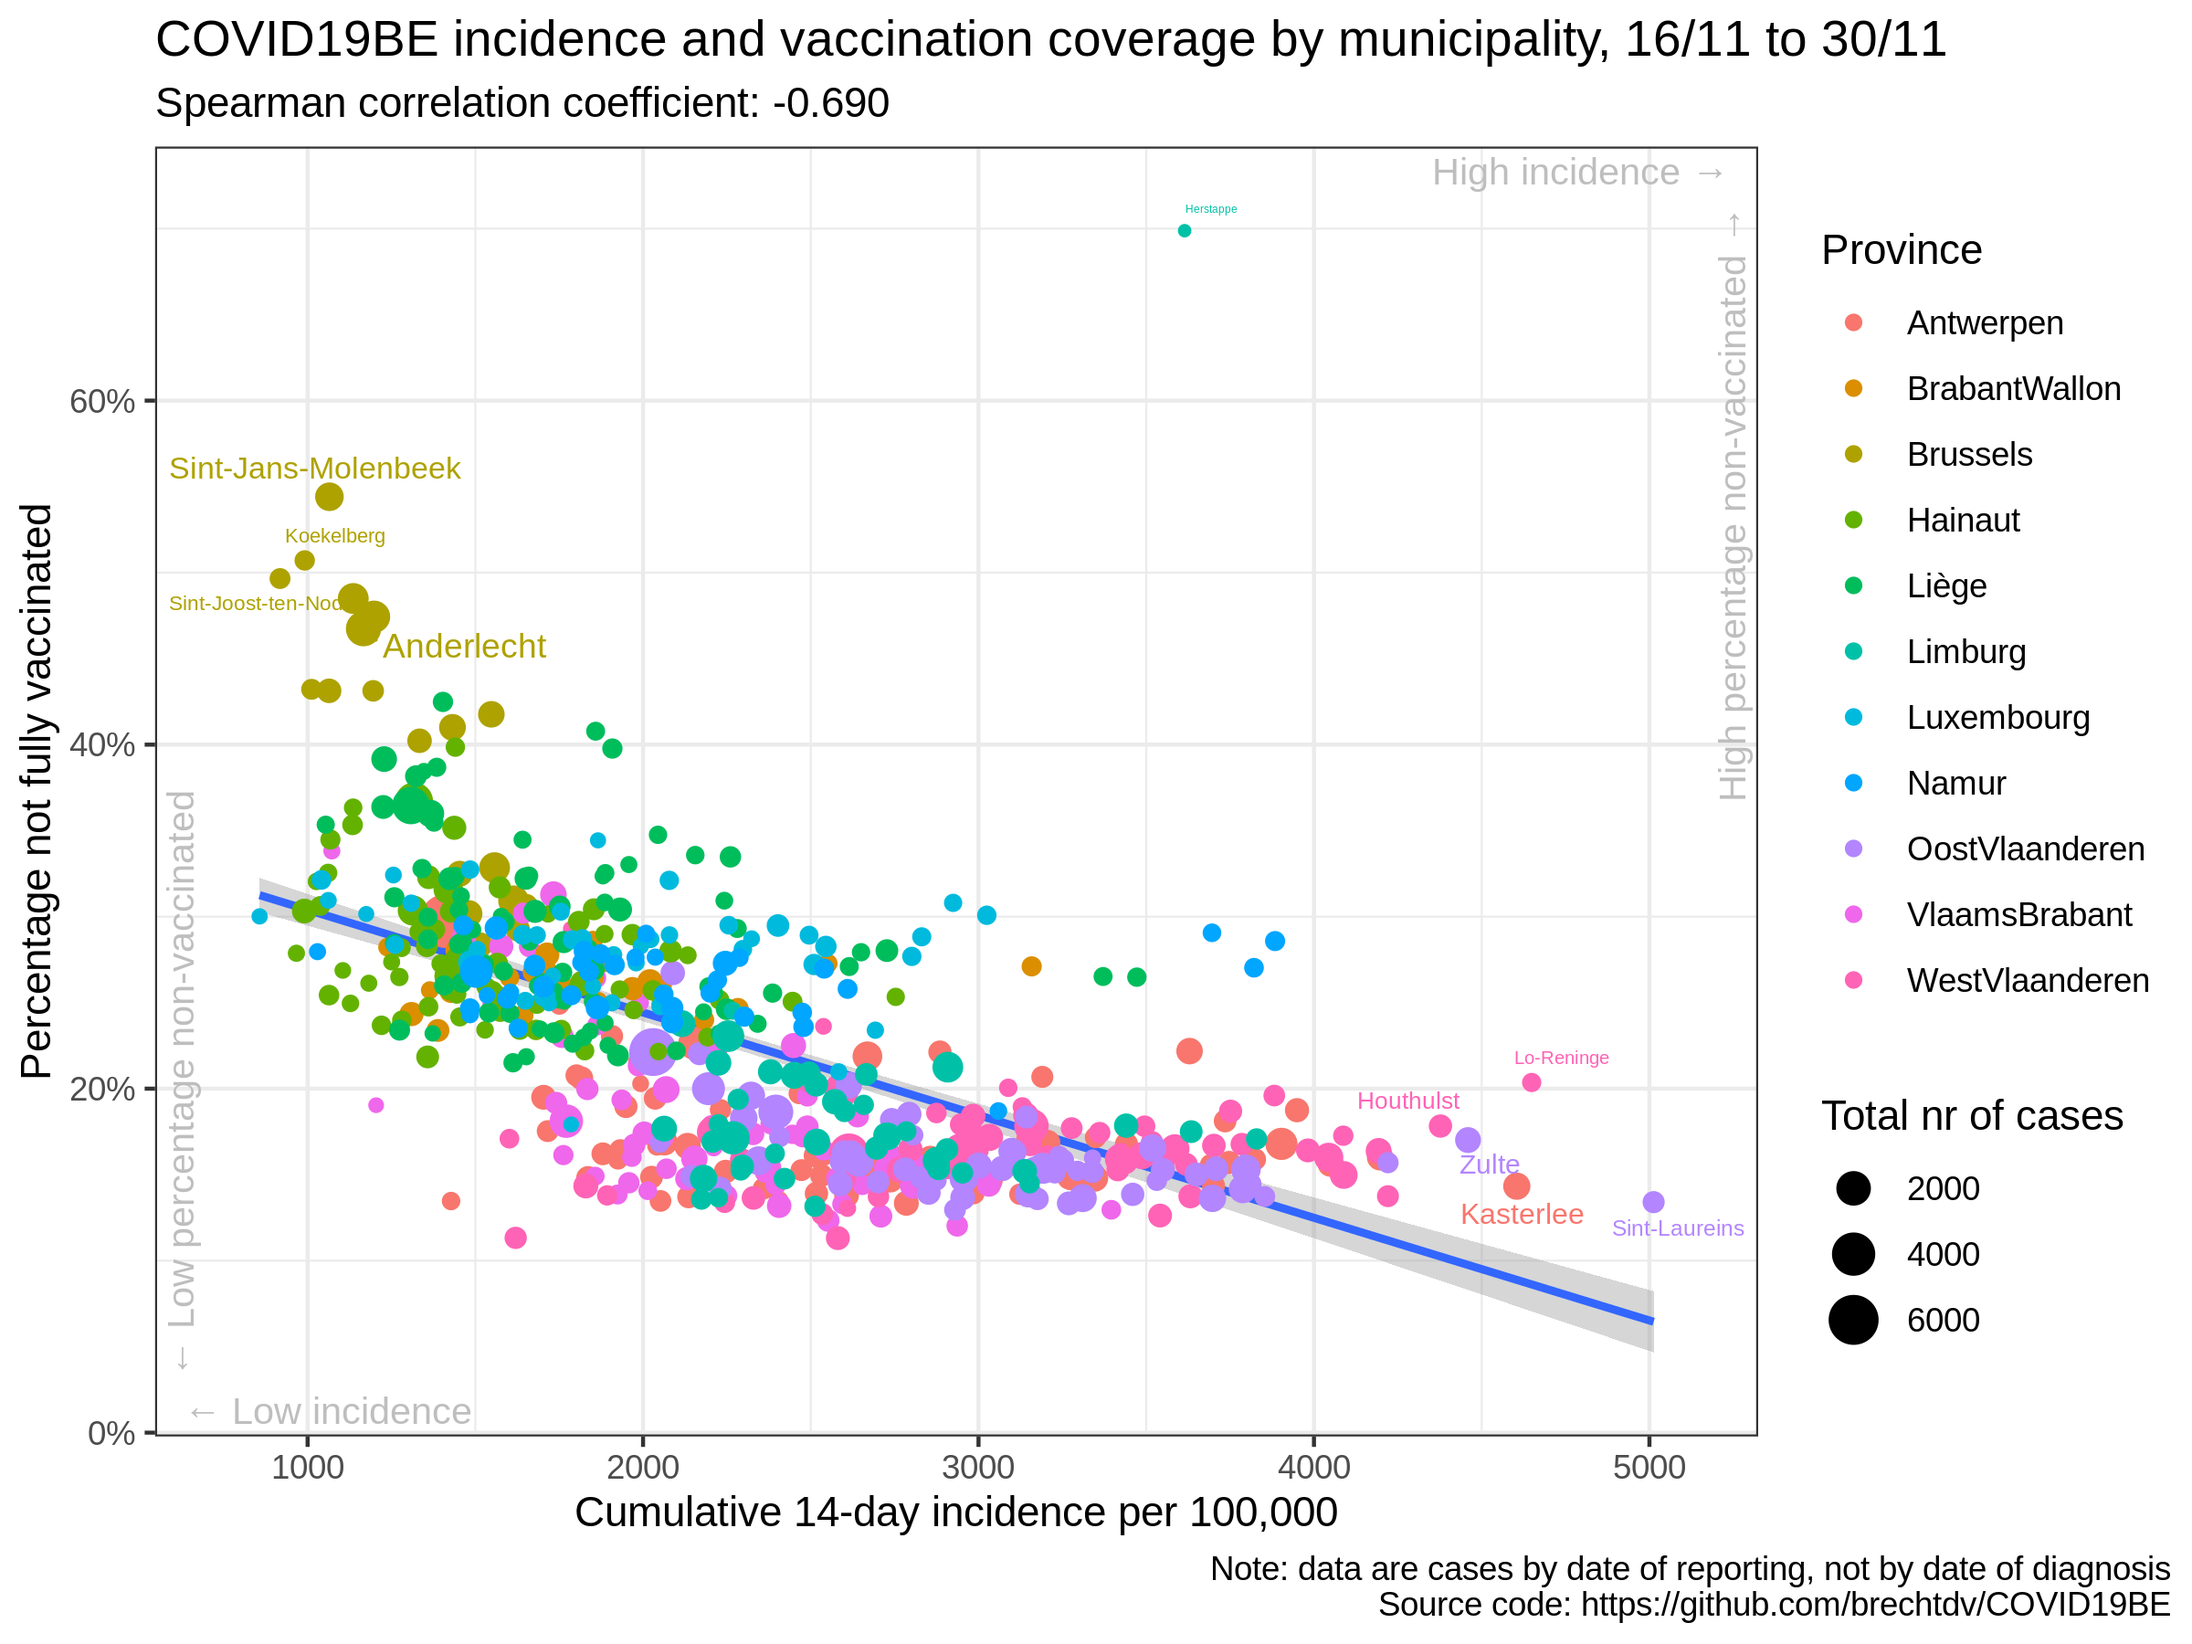
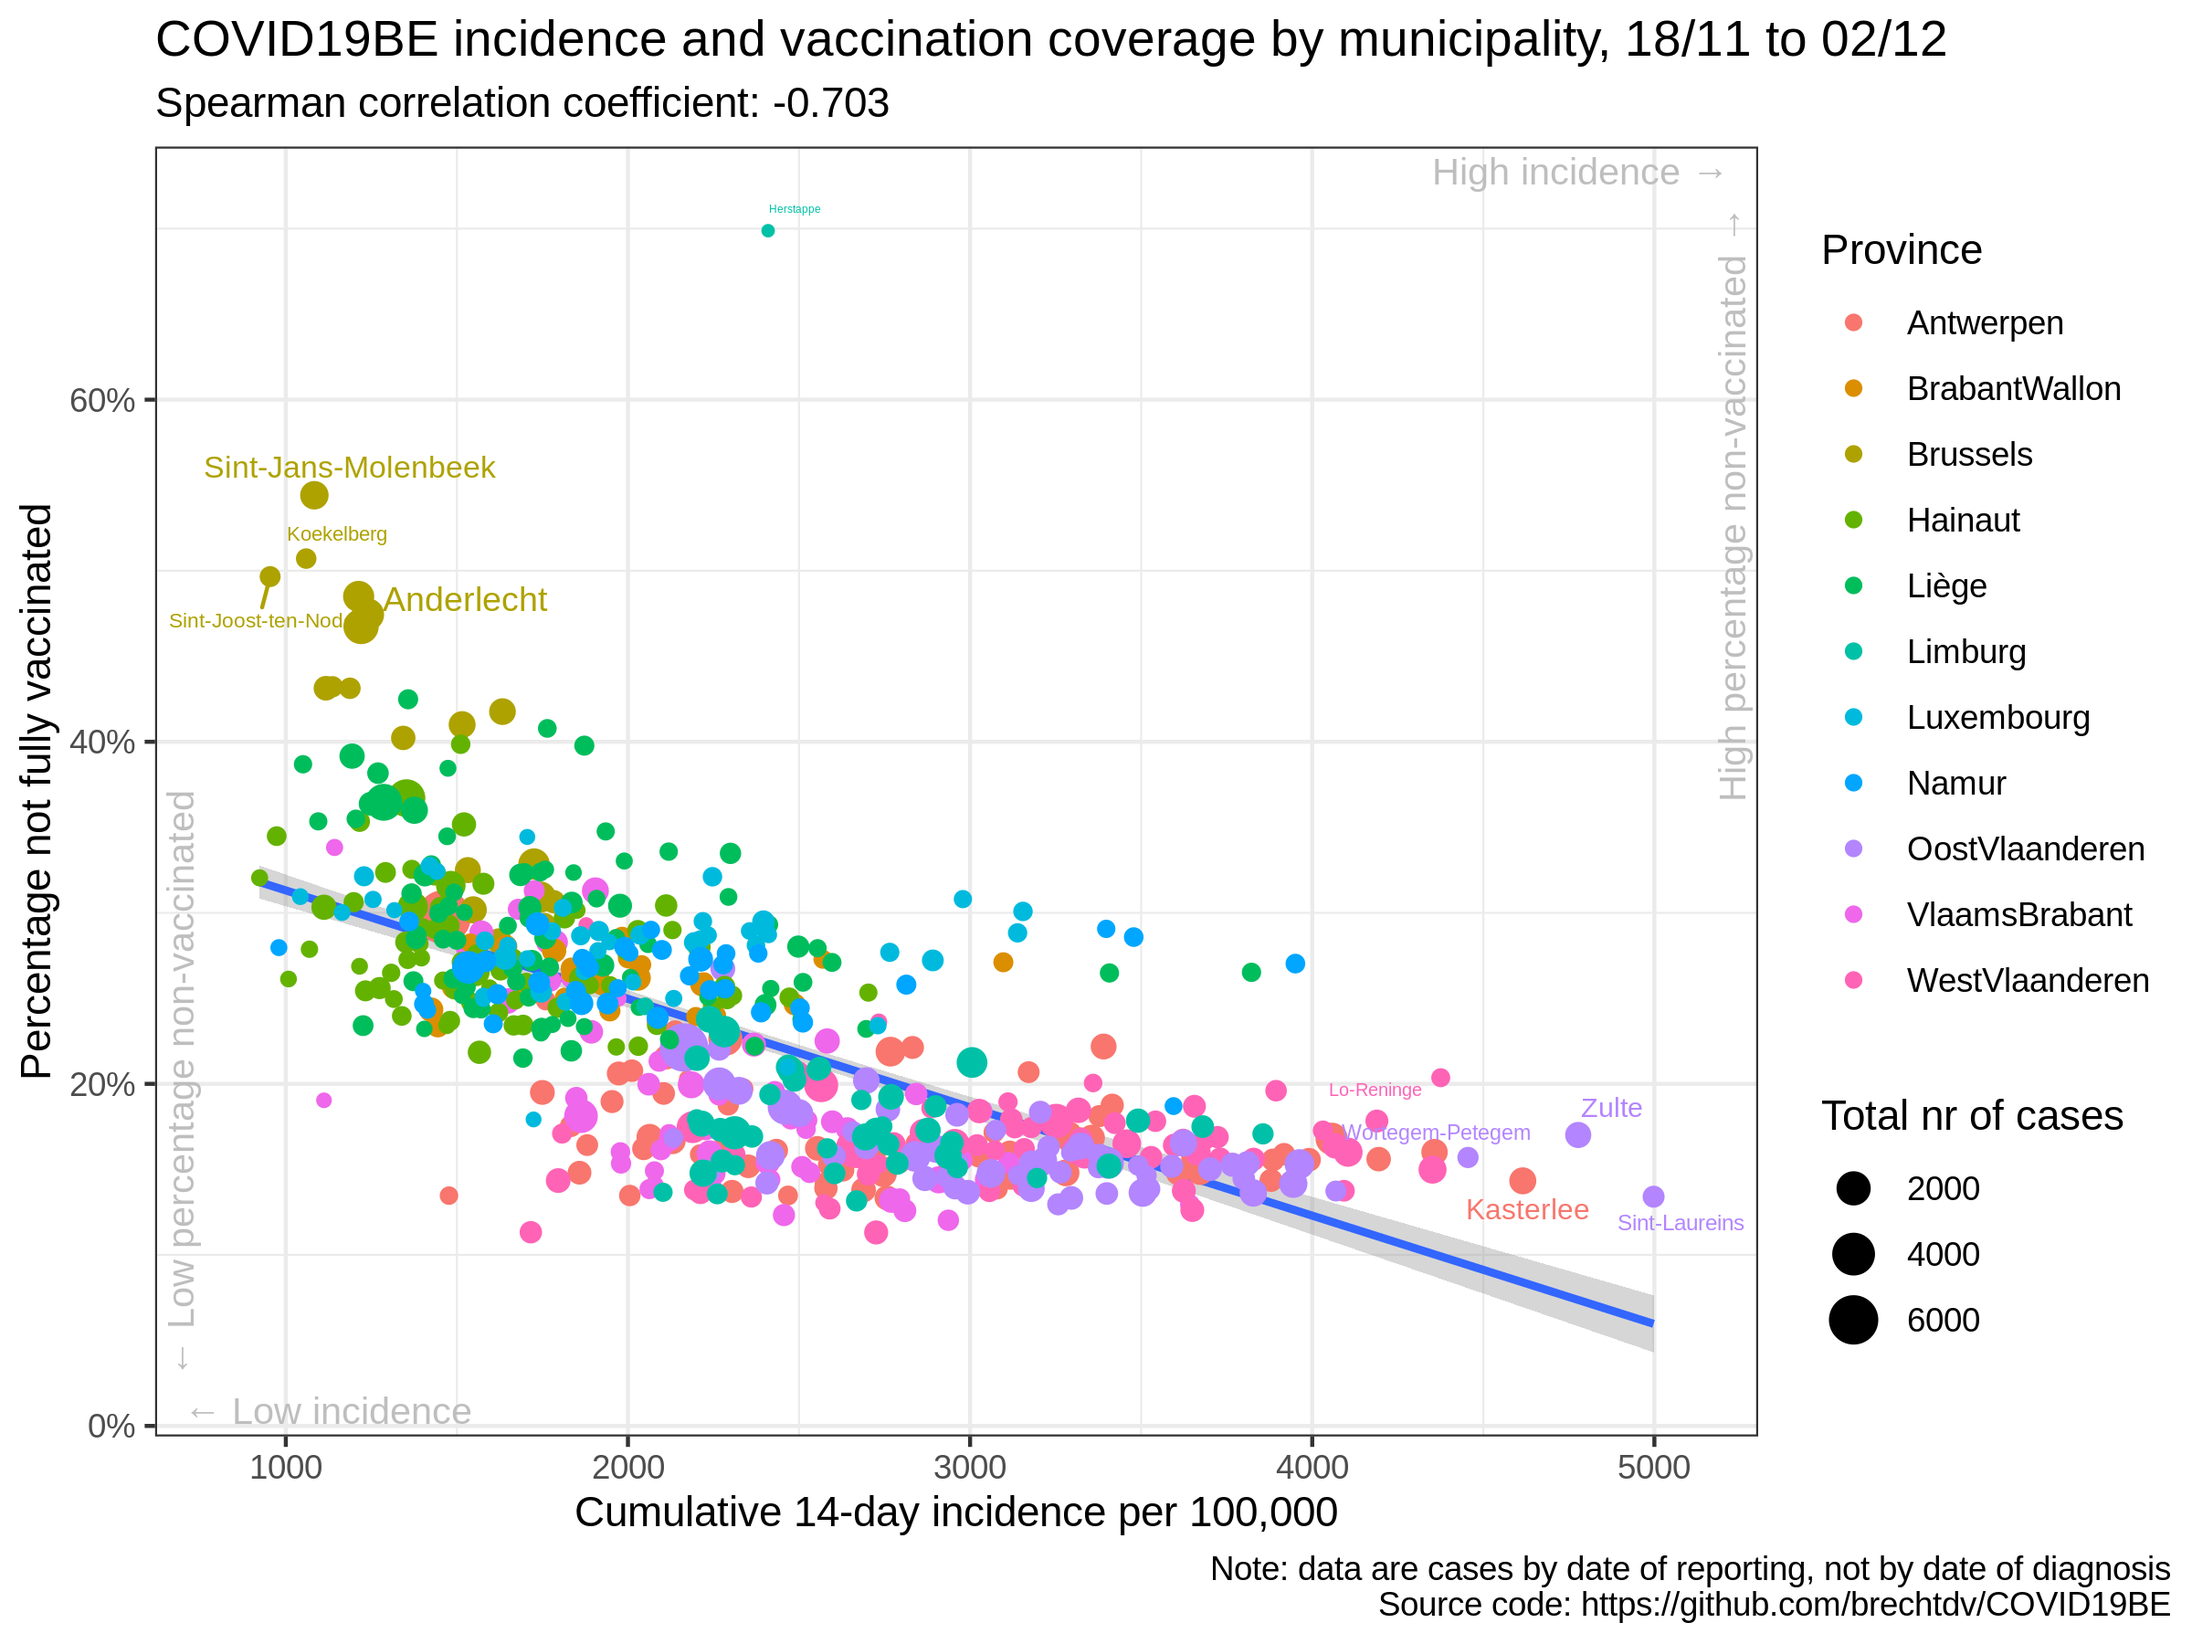
update situation

diff --git a/vaccination/README.md b/vaccination/README.md
@@ -13,18 +13,18 @@
 
 |                | estimate.rho | p.value |
 | :------------- | -----------: | ------: |
-| Antwerpen      |      \-0.224 |   0.064 |
-| BrabantWallon  |        0.006 |   0.977 |
-| Brussels       |      \-0.851 |   0.000 |
-| Hainaut        |      \-0.404 |   0.001 |
-| Liège          |      \-0.354 |   0.001 |
-| Limburg        |      \-0.065 |   0.682 |
-| Luxembourg     |      \-0.223 |   0.146 |
-| Namur          |      \-0.057 |   0.735 |
-| OostVlaanderen |      \-0.492 |   0.000 |
-| VlaamsBrabant  |      \-0.679 |   0.000 |
-| WestVlaanderen |        0.153 |   0.228 |
-| Belgium        |      \-0.690 |   0.000 |
+| Antwerpen      |      \-0.242 |   0.046 |
+| BrabantWallon  |        0.079 |   0.693 |
+| Brussels       |      \-0.858 |   0.000 |
+| Hainaut        |      \-0.440 |   0.000 |
+| Liège          |      \-0.406 |   0.000 |
+| Limburg        |      \-0.203 |   0.196 |
+| Luxembourg     |      \-0.181 |   0.239 |
+| Namur          |      \-0.019 |   0.910 |
+| OostVlaanderen |      \-0.500 |   0.000 |
+| VlaamsBrabant  |      \-0.648 |   0.000 |
+| WestVlaanderen |        0.151 |   0.234 |
+| Belgium        |      \-0.703 |   0.000 |
 
 ### Data source
 
